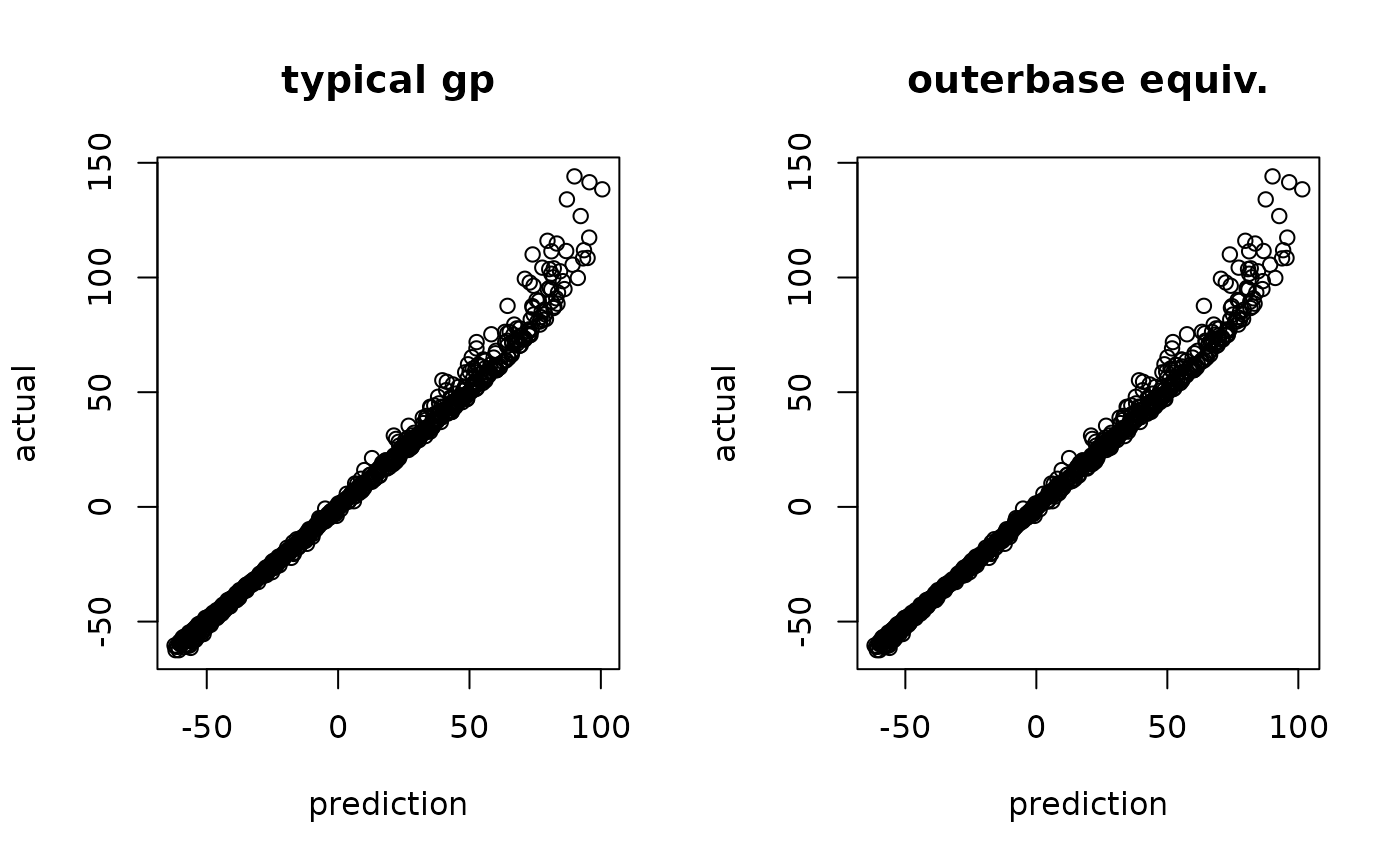
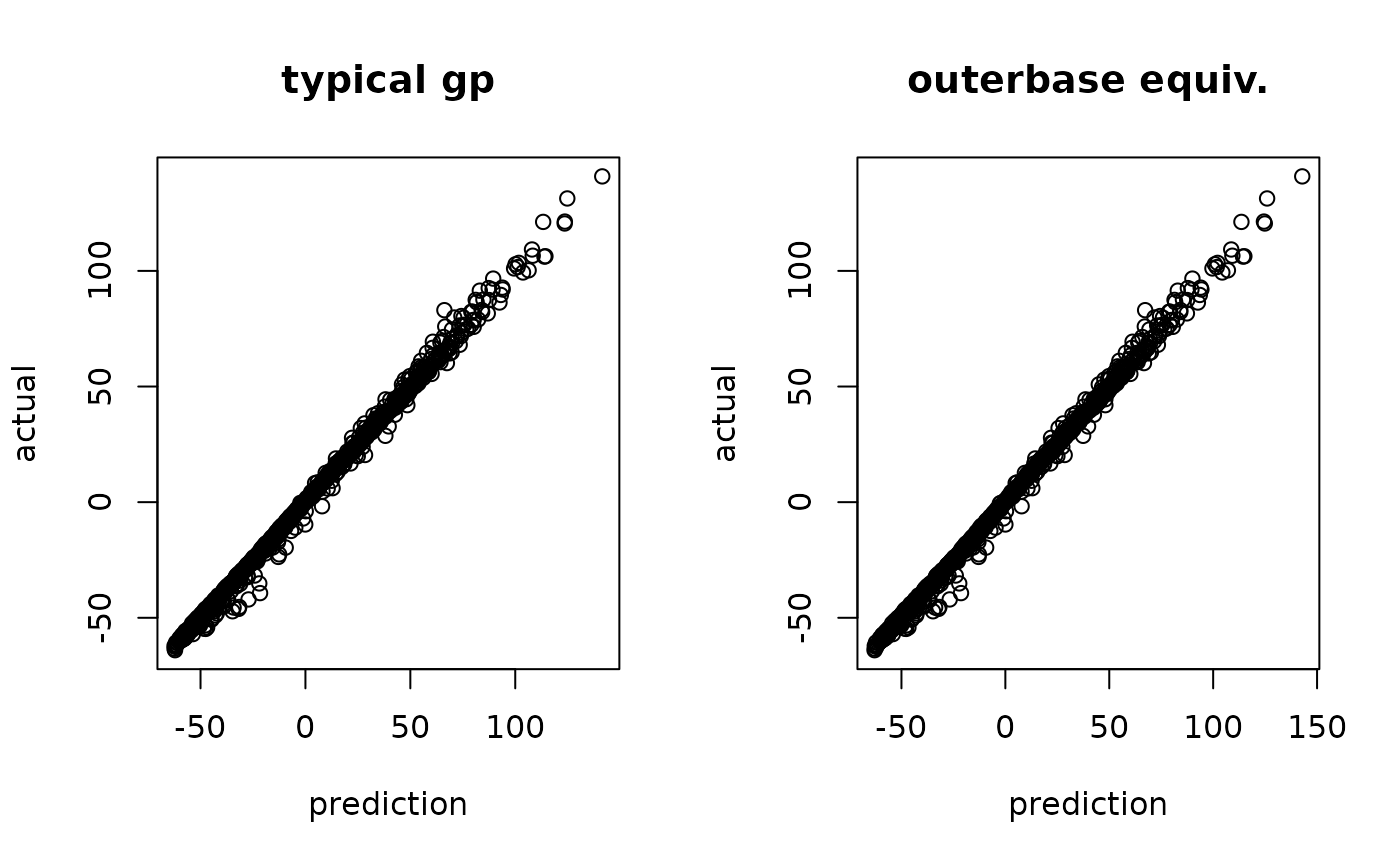
Built site for outerbase: 0.1.0@d67a49a

diff --git a/articles/learning.html b/articles/learning.html
@@ -154,15 +154,15 @@
 <span class="va">coeff0</span> <span class="op">=</span> <span class="fu"><a href="https://rdrr.io/r/base/rep.html" class="external-link">rep</a></span><span class="op">(</span><span class="fl">0</span>,<span class="va">loglik</span><span class="op">$</span><span class="va">nterms</span><span class="op">)</span>
 <span class="va">loglik</span><span class="op">$</span><span class="fu">update</span><span class="op">(</span><span class="va">coeff0</span><span class="op">)</span> <span class="co"># update it to get gradients</span>
 <span class="va">loglik</span><span class="op">$</span><span class="va">val</span>
-<span class="co">#&gt; [1] -165.8946</span>
+<span class="co">#&gt; [1] -157.9181</span>
 <span class="fu"><a href="https://rdrr.io/r/utils/head.html" class="external-link">head</a></span><span class="op">(</span><span class="va">loglik</span><span class="op">$</span><span class="va">grad</span><span class="op">)</span> <span class="co"># dim 60 for number of coeffients</span>
 <span class="co">#&gt;             [,1]</span>
-<span class="co">#&gt; [1,] -0.01409797</span>
-<span class="co">#&gt; [2,] -0.91698190</span>
-<span class="co">#&gt; [3,]  3.43017546</span>
-<span class="co">#&gt; [4,] -0.42483593</span>
-<span class="co">#&gt; [5,] -0.10561420</span>
-<span class="co">#&gt; [6,] -0.18467333</span></code></pre></div>
+<span class="co">#&gt; [1,]  0.06298246</span>
+<span class="co">#&gt; [2,] -0.87377171</span>
+<span class="co">#&gt; [3,]  2.48540709</span>
+<span class="co">#&gt; [4,] -0.67689310</span>
+<span class="co">#&gt; [5,]  0.21366357</span>
+<span class="co">#&gt; [6,] -0.52262908</span></code></pre></div>
 <p>A reasonable statistical model also needs prior on the coefficients. This tells us what distribution we expect on the coefficients.</p>
 <div class="sourceCode" id="cb10"><pre class="downlit sourceCode r">
 <code class="sourceCode R"><span class="va">logpr</span> <span class="op">=</span> <span class="fu">new</span><span class="op">(</span><span class="va">logpr_gauss</span>, <span class="va">om</span>, <span class="va">terms</span><span class="op">)</span></code></pre></div>
@@ -172,12 +172,12 @@
 <span class="va">para0</span> <span class="op">=</span> <span class="fu"><a href="../reference/getpara.html">getpara</a></span><span class="op">(</span><span class="va">logpdf</span><span class="op">)</span>
 <span class="va">para0</span>
 <span class="co">#&gt; noisescale coeffscale </span>
-<span class="co">#&gt;   2.918121   6.000000</span>
+<span class="co">#&gt;   3.114873   6.000000</span>
 <span class="va">para0</span><span class="op">[</span><span class="fl">2</span><span class="op">]</span> <span class="op">=</span> <span class="fl">4</span>
 <span class="va">logpdf</span><span class="op">$</span><span class="fu">updatepara</span><span class="op">(</span><span class="va">para0</span><span class="op">)</span>
 <span class="fu"><a href="../reference/getpara.html">getpara</a></span><span class="op">(</span><span class="va">logpdf</span><span class="op">)</span>
 <span class="co">#&gt; noisescale coeffscale </span>
-<span class="co">#&gt;   2.918121   4.000000</span></code></pre></div>
+<span class="co">#&gt;   3.114873   4.000000</span></code></pre></div>
 <p>The coefficients <code>coeff</code> are considered ancillary parameters that need to be optimized out (or something more sophisticated, hint on current research). For this class, it is easiest to do this via <code>lpdf$optnewton</code>, which takes a single Newton step to optimize the coefficients.</p>
 <div class="sourceCode" id="cb12"><pre class="downlit sourceCode r">
 <code class="sourceCode R"><span class="va">logpdf</span><span class="op">$</span><span class="fu">optnewton</span><span class="op">(</span><span class="op">)</span></code></pre></div>
@@ -208,16 +208,16 @@
 <code class="sourceCode R"><span class="va">logpdf</span><span class="op">$</span><span class="fu">optnewton</span><span class="op">(</span><span class="op">)</span>
 <span class="va">logpdf</span><span class="op">$</span><span class="va">gradhyp</span>    <span class="co"># dim 6 for all hyperparameter</span>
 <span class="co">#&gt;            [,1]</span>
-<span class="co">#&gt; [1,] -0.4354245</span>
-<span class="co">#&gt; [2,]  0.3445387</span>
-<span class="co">#&gt; [3,]  8.4598222</span>
-<span class="co">#&gt; [4,]  0.9965684</span>
-<span class="co">#&gt; [5,]  8.2870239</span>
-<span class="co">#&gt; [6,]  0.8652708</span>
+<span class="co">#&gt; [1,] -1.8914809</span>
+<span class="co">#&gt; [2,]  0.1880586</span>
+<span class="co">#&gt; [3,]  7.4871016</span>
+<span class="co">#&gt; [4,]  0.7825691</span>
+<span class="co">#&gt; [5,]  8.0155396</span>
+<span class="co">#&gt; [6,]  0.8188095</span>
 <span class="va">logpdf</span><span class="op">$</span><span class="va">gradpara</span>   <span class="co"># dim 2 since 2 parameters</span>
 <span class="co">#&gt;            [,1]</span>
-<span class="co">#&gt; [1,] -17.476154</span>
-<span class="co">#&gt; [2,]  -3.226378</span></code></pre></div>
+<span class="co">#&gt; [1,] -17.838563</span>
+<span class="co">#&gt; [2,]  -1.559564</span></code></pre></div>
 <p>This allows us to use custom functions to learn these hyperparameters to give maximum predictive power. The goal right now is a single point estimate of these hyperparameters. One has to be very careful to keep these in good ranges, and the call below will make sure to return <code>-inf</code> if there is a problem with the chosen hyperparameters.</p>
 <div class="sourceCode" id="cb16"><pre class="downlit sourceCode r">
 <code class="sourceCode R"><span class="va">totobj</span> <span class="op">=</span> <span class="kw">function</span><span class="op">(</span><span class="va">parlist</span><span class="op">)</span> <span class="op">{</span> <span class="co">#my optimization function for tuning</span>
@@ -239,69 +239,67 @@
 <code class="sourceCode R"><span class="va">parlist</span> <span class="op">=</span> <span class="fu"><a href="https://rdrr.io/r/base/list.html" class="external-link">list</a></span><span class="op">(</span>para <span class="op">=</span> <span class="fu"><a href="../reference/getpara.html">getpara</a></span><span class="op">(</span><span class="va">logpdf</span><span class="op">)</span>, hyp <span class="op">=</span> <span class="fu"><a href="../reference/gethyp.html">gethyp</a></span><span class="op">(</span><span class="va">om</span><span class="op">)</span><span class="op">)</span>
 <span class="fu">totobj</span><span class="op">(</span><span class="va">parlist</span><span class="op">)</span>
 <span class="co">#&gt; $val</span>
-<span class="co">#&gt; [1] 83.9639</span>
+<span class="co">#&gt; [1] 88.64726</span>
 <span class="co">#&gt; </span>
 <span class="co">#&gt; $gval</span>
 <span class="co">#&gt; $gval$para</span>
 <span class="co">#&gt;           [,1]</span>
-<span class="co">#&gt; [1,] 17.476154</span>
-<span class="co">#&gt; [2,]  2.726378</span>
+<span class="co">#&gt; [1,] 17.838563</span>
+<span class="co">#&gt; [2,]  1.059564</span>
 <span class="co">#&gt; </span>
 <span class="co">#&gt; $gval$hyp</span>
 <span class="co">#&gt;             [,1]</span>
-<span class="co">#&gt; [1,]  -4.9217183</span>
-<span class="co">#&gt; [2,]  -0.3445387</span>
-<span class="co">#&gt; [3,] -13.8169651</span>
-<span class="co">#&gt; [4,]  -0.9965684</span>
-<span class="co">#&gt; [5,] -13.6441668</span>
-<span class="co">#&gt; [6,]  -0.8652708</span>
+<span class="co">#&gt; [1,]  -3.4656620</span>
+<span class="co">#&gt; [2,]  -0.1880586</span>
+<span class="co">#&gt; [3,] -12.8442445</span>
+<span class="co">#&gt; [4,]  -0.7825691</span>
+<span class="co">#&gt; [5,] -13.3726825</span>
+<span class="co">#&gt; [6,]  -0.8188095</span>
 <span class="va">opth</span> <span class="op">=</span> <span class="fu"><a href="../reference/BFGS_std.html">BFGS_std</a></span><span class="op">(</span><span class="va">totobj</span>, <span class="va">parlist</span>, verbose<span class="op">=</span><span class="fl">3</span><span class="op">)</span> <span class="co">#</span>
 <span class="co">#&gt; </span>
 <span class="co">#&gt; ########started BFGS#######</span>
 <span class="co">#&gt;  iter.no obj.value wolfe.cond.1 wolfe.cond.2 learning.rate</span>
-<span class="co">#&gt;        0   83.9639           NA           NA           0.1</span>
+<span class="co">#&gt;        0   88.6473           NA           NA           0.1</span>
 <span class="co">#&gt;  iter.no obj.value wolfe.cond.1 wolfe.cond.2 learning.rate</span>
-<span class="co">#&gt;        1   81.0332     -2.93013     -46.5226           0.1</span>
+<span class="co">#&gt;        1   86.0996     -2.54714     -45.7816           0.1</span>
 <span class="co">#&gt;  iter.no obj.value wolfe.cond.1 wolfe.cond.2 learning.rate</span>
-<span class="co">#&gt;        2    76.268     -4.76467    -0.339566       0.50357</span>
+<span class="co">#&gt;        2   81.4334      -4.6657    -0.231404       0.50357</span>
 <span class="co">#&gt;  iter.no obj.value wolfe.cond.1 wolfe.cond.2 learning.rate</span>
-<span class="co">#&gt;        3   60.4958       -15.77     -24.9943      0.539329</span>
+<span class="co">#&gt;        3   65.2067     -16.2244     -26.9059      0.539329</span>
 <span class="co">#&gt;  iter.no obj.value wolfe.cond.1 wolfe.cond.2 learning.rate</span>
-<span class="co">#&gt;        4   54.6379     -5.85721     -2.81639      0.573679</span>
+<span class="co">#&gt;        4   60.0244     -5.18159     -2.54652      0.573679</span>
 <span class="co">#&gt;  iter.no obj.value wolfe.cond.1 wolfe.cond.2 learning.rate</span>
-<span class="co">#&gt;        5   44.0634     -10.5731     -9.40703      0.606459</span>
+<span class="co">#&gt;        5   50.3899     -9.63328     -6.43443      0.606459</span>
 <span class="co">#&gt;  iter.no obj.value wolfe.cond.1 wolfe.cond.2 learning.rate</span>
-<span class="co">#&gt;        6   35.1811     -8.88113     -5.11392      0.637561</span>
+<span class="co">#&gt;        6   39.1815      -11.207     -10.5625      0.637561</span>
 <span class="co">#&gt;  iter.no obj.value wolfe.cond.1 wolfe.cond.2 learning.rate</span>
-<span class="co">#&gt;        7   29.0215     -6.15838     -17.4167      0.666913</span>
+<span class="co">#&gt;        7   35.3167     -3.86414     -5.56344      0.666913</span>
 <span class="co">#&gt;  iter.no obj.value wolfe.cond.1 wolfe.cond.2 learning.rate</span>
-<span class="co">#&gt;        8   27.5932     -1.42791      -9.3062      0.694484</span>
-<span class="co">#&gt;  iter.no obj.value wolfe.cond.1 wolfe.cond.2 learning.rate</span>
-<span class="co">#&gt;        9   27.1559    -0.437159    -0.922883      0.720271</span>
-<span class="co">#&gt; num iter: 10  obj start: 83.9639  obj end: 27.13144</span>
-<span class="co">#&gt; final learning rate: 0.7442976</span>
-<span class="co">#&gt; approx lower bound (not achieved): 27.08945</span>
+<span class="co">#&gt;        8   34.8155    -0.501086     -3.52478      0.694484</span>
+<span class="co">#&gt; num iter: 9  obj start: 88.64726  obj end: 34.3146</span>
+<span class="co">#&gt; final learning rate: 0.7202715</span>
+<span class="co">#&gt; approx lower bound (not achieved): 32.99314</span>
 <span class="co">#&gt; #########finished BFGS########</span></code></pre></div>
 <p>Then we just have to update out parameters and re-optimize, and we can check that we are at least must closer to stationary point.</p>
 <div class="sourceCode" id="cb18"><pre class="downlit sourceCode r">
 <code class="sourceCode R"><span class="fu">totobj</span><span class="op">(</span><span class="va">opth</span><span class="op">$</span><span class="va">par</span><span class="op">)</span>
 <span class="co">#&gt; $val</span>
-<span class="co">#&gt; [1] 27.13144</span>
+<span class="co">#&gt; [1] 34.3146</span>
 <span class="co">#&gt; </span>
 <span class="co">#&gt; $gval</span>
 <span class="co">#&gt; $gval$para</span>
-<span class="co">#&gt;           [,1]</span>
-<span class="co">#&gt; [1,] -0.421129</span>
-<span class="co">#&gt; [2,] -0.835277</span>
+<span class="co">#&gt;            [,1]</span>
+<span class="co">#&gt; [1,] -0.9311632</span>
+<span class="co">#&gt; [2,] -0.1623044</span>
 <span class="co">#&gt; </span>
 <span class="co">#&gt; $gval$hyp</span>
-<span class="co">#&gt;             [,1]</span>
-<span class="co">#&gt; [1,] -0.44363247</span>
-<span class="co">#&gt; [2,] -0.36102089</span>
-<span class="co">#&gt; [3,]  0.04007399</span>
-<span class="co">#&gt; [4,] -0.27483553</span>
-<span class="co">#&gt; [5,] -0.07262555</span>
-<span class="co">#&gt; [6,] -0.36960464</span></code></pre></div>
+<span class="co">#&gt;            [,1]</span>
+<span class="co">#&gt; [1,] -0.8098683</span>
+<span class="co">#&gt; [2,] -0.2666485</span>
+<span class="co">#&gt; [3,] -1.5011037</span>
+<span class="co">#&gt; [4,] -0.5390726</span>
+<span class="co">#&gt; [5,] -0.6901071</span>
+<span class="co">#&gt; [6,]  0.1982655</span></code></pre></div>
 <p>These steps can all be nicely wrapped up in another function <code><a href="../reference/BFGS_lpdf.html">?BFGS_lpdf</a></code>, which is a simpler call with the same result. Note because of some things not fully understood, these numbers will not match <em>exactly</em> above, but they will be quite close and functionally the same.</p>
 <div class="sourceCode" id="cb19"><pre class="downlit sourceCode r">
 <code class="sourceCode R"><span class="va">opth</span> <span class="op">=</span> <span class="fu"><a href="../reference/BFGS_lpdf.html">BFGS_lpdf</a></span><span class="op">(</span><span class="va">om</span>, <span class="va">logpdf</span>, 
@@ -310,28 +308,26 @@
 <span class="co">#&gt; </span>
 <span class="co">#&gt; ########started BFGS#######</span>
 <span class="co">#&gt;  iter.no obj.value wolfe.cond.1 wolfe.cond.2 learning.rate</span>
-<span class="co">#&gt;        0   83.9639           NA           NA           0.1</span>
+<span class="co">#&gt;        0   88.6473           NA           NA           0.1</span>
 <span class="co">#&gt;  iter.no obj.value wolfe.cond.1 wolfe.cond.2 learning.rate</span>
-<span class="co">#&gt;        1   81.0332     -2.93013     -46.5226           0.1</span>
+<span class="co">#&gt;        1   86.0996     -2.54714     -45.7816           0.1</span>
 <span class="co">#&gt;  iter.no obj.value wolfe.cond.1 wolfe.cond.2 learning.rate</span>
-<span class="co">#&gt;        2    76.268     -4.76467    -0.339566       0.50357</span>
+<span class="co">#&gt;        2   81.4334      -4.6657    -0.231404       0.50357</span>
 <span class="co">#&gt;  iter.no obj.value wolfe.cond.1 wolfe.cond.2 learning.rate</span>
-<span class="co">#&gt;        3   60.4958       -15.77     -24.9943      0.539329</span>
+<span class="co">#&gt;        3   65.2067     -16.2244     -26.9059      0.539329</span>
 <span class="co">#&gt;  iter.no obj.value wolfe.cond.1 wolfe.cond.2 learning.rate</span>
-<span class="co">#&gt;        4   54.6379     -5.85721     -2.81639      0.573679</span>
+<span class="co">#&gt;        4   60.0244     -5.18159     -2.54652      0.573679</span>
 <span class="co">#&gt;  iter.no obj.value wolfe.cond.1 wolfe.cond.2 learning.rate</span>
-<span class="co">#&gt;        5   44.0634     -10.5731     -9.40703      0.606459</span>
+<span class="co">#&gt;        5   50.3899     -9.63328     -6.43443      0.606459</span>
 <span class="co">#&gt;  iter.no obj.value wolfe.cond.1 wolfe.cond.2 learning.rate</span>
-<span class="co">#&gt;        6   35.1811     -8.88113     -5.11392      0.637561</span>
+<span class="co">#&gt;        6   39.1815      -11.207     -10.5625      0.637561</span>
 <span class="co">#&gt;  iter.no obj.value wolfe.cond.1 wolfe.cond.2 learning.rate</span>
-<span class="co">#&gt;        7   29.0215     -6.15838     -17.4167      0.666913</span>
+<span class="co">#&gt;        7   35.3167     -3.86414     -5.56344      0.666913</span>
 <span class="co">#&gt;  iter.no obj.value wolfe.cond.1 wolfe.cond.2 learning.rate</span>
-<span class="co">#&gt;        8   27.5932     -1.42791      -9.3062      0.694484</span>
-<span class="co">#&gt;  iter.no obj.value wolfe.cond.1 wolfe.cond.2 learning.rate</span>
-<span class="co">#&gt;        9   27.1559    -0.437159    -0.922883      0.720271</span>
-<span class="co">#&gt; num iter: 10  obj start: 83.9639  obj end: 27.13144</span>
-<span class="co">#&gt; final learning rate: 0.7442976</span>
-<span class="co">#&gt; approx lower bound (not achieved): 27.08945</span>
+<span class="co">#&gt;        8   34.8155    -0.501086     -3.52478      0.694484</span>
+<span class="co">#&gt; num iter: 9  obj start: 88.64726  obj end: 34.3146</span>
+<span class="co">#&gt; final learning rate: 0.7202715</span>
+<span class="co">#&gt; approx lower bound (not achieved): 32.99314</span>
 <span class="co">#&gt; #########finished BFGS########</span></code></pre></div>
 <p>The revised predictions are then built after hyperparameter optimization where we find improved predictive accuracy in nearly every category. Here we can see a much better alignment between predictions and actual alongside a better plot of standardized residuals (more like a standard normal distribution).</p>
 <div class="sourceCode" id="cb20"><pre class="downlit sourceCode r">

diff --git a/reference/lpdf-cash-optcg.html b/reference/lpdf-cash-optcg.html
@@ -3,11 +3,11 @@
 
 lpdf$optcg(tol,epoch)
 This optimizes the coefficient vector coeff using conjugate gradient. 
-It currently is designed only for quadratic lpdf instaces."><title>Optimization via Conjugate Gradient — lpdf$optcg • outerbase</title><script src="../deps/jquery-3.6.0/jquery-3.6.0.min.js"></script><meta name="viewport" content="width=device-width, initial-scale=1, shrink-to-fit=no"><link href="../deps/bootstrap-5.1.0/bootstrap.min.css" rel="stylesheet"><script src="../deps/bootstrap-5.1.0/bootstrap.bundle.min.js"></script><link href="../deps/_Source%20Sans%20Pro-0.4.1/font.css" rel="stylesheet"><link href="../deps/_Source%20Code%20Pro-0.4.1/font.css" rel="stylesheet"><!-- Font Awesome icons --><link rel="stylesheet" href="https://cdnjs.cloudflare.com/ajax/libs/font-awesome/5.12.1/css/all.min.css" integrity="sha256-mmgLkCYLUQbXn0B1SRqzHar6dCnv9oZFPEC1g1cwlkk=" crossorigin="anonymous"><link rel="stylesheet" href="https://cdnjs.cloudflare.com/ajax/libs/font-awesome/5.12.1/css/v4-shims.min.css" integrity="sha256-wZjR52fzng1pJHwx4aV2AO3yyTOXrcDW7jBpJtTwVxw=" crossorigin="anonymous"><!-- bootstrap-toc --><script src="https://cdn.rawgit.com/afeld/bootstrap-toc/v1.0.1/dist/bootstrap-toc.min.js"></script><!-- headroom.js --><script src="https://cdnjs.cloudflare.com/ajax/libs/headroom/0.11.0/headroom.min.js" integrity="sha256-AsUX4SJE1+yuDu5+mAVzJbuYNPHj/WroHuZ8Ir/CkE0=" crossorigin="anonymous"></script><script src="https://cdnjs.cloudflare.com/ajax/libs/headroom/0.11.0/jQuery.headroom.min.js" integrity="sha256-ZX/yNShbjqsohH1k95liqY9Gd8uOiE1S4vZc+9KQ1K4=" crossorigin="anonymous"></script><!-- clipboard.js --><script src="https://cdnjs.cloudflare.com/ajax/libs/clipboard.js/2.0.6/clipboard.min.js" integrity="sha256-inc5kl9MA1hkeYUt+EC3BhlIgyp/2jDIyBLS6k3UxPI=" crossorigin="anonymous"></script><!-- search --><script src="https://cdnjs.cloudflare.com/ajax/libs/fuse.js/6.4.6/fuse.js" integrity="sha512-zv6Ywkjyktsohkbp9bb45V6tEMoWhzFzXis+LrMehmJZZSys19Yxf1dopHx7WzIKxr5tK2dVcYmaCk2uqdjF4A==" crossorigin="anonymous"></script><script src="https://cdnjs.cloudflare.com/ajax/libs/autocomplete.js/0.38.0/autocomplete.jquery.min.js" integrity="sha512-GU9ayf+66Xx2TmpxqJpliWbT5PiGYxpaG8rfnBEk1LL8l1KGkRShhngwdXK1UgqhAzWpZHSiYPc09/NwDQIGyg==" crossorigin="anonymous"></script><script src="https://cdnjs.cloudflare.com/ajax/libs/mark.js/8.11.1/mark.min.js" integrity="sha512-5CYOlHXGh6QpOFA/TeTylKLWfB3ftPsde7AnmhuitiTX4K5SqCLBeKro6sPS8ilsz1Q4NRx3v8Ko2IBiszzdww==" crossorigin="anonymous"></script><!-- pkgdown --><script src="../pkgdown.js"></script><meta property="og:title" content="Optimization via Conjugate Gradient — lpdf$optcg"><meta property="og:description" content="
+It currently is designed only for quadratic lpdf instances."><title>Optimization via Conjugate Gradient — lpdf$optcg • outerbase</title><script src="../deps/jquery-3.6.0/jquery-3.6.0.min.js"></script><meta name="viewport" content="width=device-width, initial-scale=1, shrink-to-fit=no"><link href="../deps/bootstrap-5.1.0/bootstrap.min.css" rel="stylesheet"><script src="../deps/bootstrap-5.1.0/bootstrap.bundle.min.js"></script><link href="../deps/_Source%20Sans%20Pro-0.4.1/font.css" rel="stylesheet"><link href="../deps/_Source%20Code%20Pro-0.4.1/font.css" rel="stylesheet"><!-- Font Awesome icons --><link rel="stylesheet" href="https://cdnjs.cloudflare.com/ajax/libs/font-awesome/5.12.1/css/all.min.css" integrity="sha256-mmgLkCYLUQbXn0B1SRqzHar6dCnv9oZFPEC1g1cwlkk=" crossorigin="anonymous"><link rel="stylesheet" href="https://cdnjs.cloudflare.com/ajax/libs/font-awesome/5.12.1/css/v4-shims.min.css" integrity="sha256-wZjR52fzng1pJHwx4aV2AO3yyTOXrcDW7jBpJtTwVxw=" crossorigin="anonymous"><!-- bootstrap-toc --><script src="https://cdn.rawgit.com/afeld/bootstrap-toc/v1.0.1/dist/bootstrap-toc.min.js"></script><!-- headroom.js --><script src="https://cdnjs.cloudflare.com/ajax/libs/headroom/0.11.0/headroom.min.js" integrity="sha256-AsUX4SJE1+yuDu5+mAVzJbuYNPHj/WroHuZ8Ir/CkE0=" crossorigin="anonymous"></script><script src="https://cdnjs.cloudflare.com/ajax/libs/headroom/0.11.0/jQuery.headroom.min.js" integrity="sha256-ZX/yNShbjqsohH1k95liqY9Gd8uOiE1S4vZc+9KQ1K4=" crossorigin="anonymous"></script><!-- clipboard.js --><script src="https://cdnjs.cloudflare.com/ajax/libs/clipboard.js/2.0.6/clipboard.min.js" integrity="sha256-inc5kl9MA1hkeYUt+EC3BhlIgyp/2jDIyBLS6k3UxPI=" crossorigin="anonymous"></script><!-- search --><script src="https://cdnjs.cloudflare.com/ajax/libs/fuse.js/6.4.6/fuse.js" integrity="sha512-zv6Ywkjyktsohkbp9bb45V6tEMoWhzFzXis+LrMehmJZZSys19Yxf1dopHx7WzIKxr5tK2dVcYmaCk2uqdjF4A==" crossorigin="anonymous"></script><script src="https://cdnjs.cloudflare.com/ajax/libs/autocomplete.js/0.38.0/autocomplete.jquery.min.js" integrity="sha512-GU9ayf+66Xx2TmpxqJpliWbT5PiGYxpaG8rfnBEk1LL8l1KGkRShhngwdXK1UgqhAzWpZHSiYPc09/NwDQIGyg==" crossorigin="anonymous"></script><script src="https://cdnjs.cloudflare.com/ajax/libs/mark.js/8.11.1/mark.min.js" integrity="sha512-5CYOlHXGh6QpOFA/TeTylKLWfB3ftPsde7AnmhuitiTX4K5SqCLBeKro6sPS8ilsz1Q4NRx3v8Ko2IBiszzdww==" crossorigin="anonymous"></script><!-- pkgdown --><script src="../pkgdown.js"></script><meta property="og:title" content="Optimization via Conjugate Gradient — lpdf$optcg"><meta property="og:description" content="
 
 lpdf$optcg(tol,epoch)
 This optimizes the coefficient vector coeff using conjugate gradient. 
-It currently is designed only for quadratic lpdf instaces."><!-- mathjax --><script src="https://cdnjs.cloudflare.com/ajax/libs/mathjax/2.7.5/MathJax.js" integrity="sha256-nvJJv9wWKEm88qvoQl9ekL2J+k/RWIsaSScxxlsrv8k=" crossorigin="anonymous"></script><script src="https://cdnjs.cloudflare.com/ajax/libs/mathjax/2.7.5/config/TeX-AMS-MML_HTMLorMML.js" integrity="sha256-84DKXVJXs0/F8OTMzX4UR909+jtl4G7SPypPavF+GfA=" crossorigin="anonymous"></script><!--[if lt IE 9]>
+It currently is designed only for quadratic lpdf instances."><!-- mathjax --><script src="https://cdnjs.cloudflare.com/ajax/libs/mathjax/2.7.5/MathJax.js" integrity="sha256-nvJJv9wWKEm88qvoQl9ekL2J+k/RWIsaSScxxlsrv8k=" crossorigin="anonymous"></script><script src="https://cdnjs.cloudflare.com/ajax/libs/mathjax/2.7.5/config/TeX-AMS-MML_HTMLorMML.js" integrity="sha256-84DKXVJXs0/F8OTMzX4UR909+jtl4G7SPypPavF+GfA=" crossorigin="anonymous"></script><!--[if lt IE 9]>
 <script src="https://oss.maxcdn.com/html5shiv/3.7.3/html5shiv.min.js"></script>
 <script src="https://oss.maxcdn.com/respond/1.4.2/respond.min.js"></script>
 <![endif]--></head><body>
@@ -67,7 +67,7 @@ It currently is designed only for quadratic lpdf instaces."><!-- mathjax --><scr
     <div class="ref-description section level2">
     
 <div class="sourceCode"><pre><code><span class="va">lpdf</span><span class="op">$</span><span class="fu">optcg</span><span class="op">(</span><span class="va">tol</span>,<span class="va">epoch</span><span class="op">)</span></code></pre></div><p>This optimizes the coefficient vector <code>coeff</code> using conjugate gradient. 
-It currently is designed only for quadratic <code><a href="lpdf.html">lpdf</a></code> instaces.</p>
+It currently is designed only for quadratic <code><a href="lpdf.html">lpdf</a></code> instances.</p>
     </div>
 
 

diff --git a/articles/basebasics.html b/articles/basebasics.html
@@ -233,10 +233,10 @@
 <span class="co">#&gt;      [,1] [,2] [,3]</span>
 <span class="co">#&gt; [1,]    0    0    0</span>
 <span class="co">#&gt; [2,]    1    0    0</span>
-<span class="co">#&gt; [3,]    0    1    0</span>
-<span class="co">#&gt; [4,]    0    0    1</span>
-<span class="co">#&gt; [5,]    1    0    1</span>
-<span class="co">#&gt; [6,]    1    1    0</span></code></pre></div>
+<span class="co">#&gt; [3,]    0    0    1</span>
+<span class="co">#&gt; [4,]    0    1    0</span>
+<span class="co">#&gt; [5,]    1    1    0</span>
+<span class="co">#&gt; [6,]    1    0    1</span></code></pre></div>
 <p><code>outermod$getvar</code> returns the vector of variances associated with these coefficients at these <code>terms</code>.</p>
 <div class="sourceCode" id="cb20"><pre class="downlit sourceCode r">
 <code class="sourceCode R"><span class="va">covcoeff</span> <span class="op">=</span> <span class="fu"><a href="https://rdrr.io/r/base/vector.html" class="external-link">as.vector</a></span><span class="op">(</span><span class="va">om</span><span class="op">$</span><span class="fu">getvar</span><span class="op">(</span><span class="va">terms</span><span class="op">)</span><span class="op">)</span></code></pre></div>
@@ -251,11 +251,11 @@
 
 <span class="fu"><a href="https://rdrr.io/r/base/cbind.html" class="external-link">cbind</a></span><span class="op">(</span><span class="va">basevec</span><span class="op">[</span><span class="fl">1</span><span class="op">:</span><span class="fl">5</span><span class="op">]</span>,<span class="va">basismat</span><span class="op">[</span><span class="fl">1</span><span class="op">:</span><span class="fl">5</span>,<span class="fl">5</span><span class="op">]</span><span class="op">)</span> <span class="co"># expect equal</span>
 <span class="co">#&gt;            [,1]       [,2]</span>
-<span class="co">#&gt; [1,]  2.3101161  2.3101161</span>
-<span class="co">#&gt; [2,] -1.9668127 -1.9668127</span>
-<span class="co">#&gt; [3,]  1.1453259  1.1453259</span>
-<span class="co">#&gt; [4,]  1.4880665  1.4880665</span>
-<span class="co">#&gt; [5,]  0.2634015  0.2634015</span></code></pre></div>
+<span class="co">#&gt; [1,]  0.2667642  0.2667642</span>
+<span class="co">#&gt; [2,] -1.3287883 -1.3287883</span>
+<span class="co">#&gt; [3,]  2.0756653  2.0756653</span>
+<span class="co">#&gt; [4,]  0.9756641  0.9756641</span>
+<span class="co">#&gt; [5,] -1.6229195 -1.6229195</span></code></pre></div>
 </div>
 </div>
 <div class="section level2">
@@ -268,18 +268,18 @@
 
 <span class="fu"><a href="https://rdrr.io/r/base/print.html" class="external-link">print</a></span><span class="op">(</span><span class="fu"><a href="https://rdrr.io/r/base/Round.html" class="external-link">round</a></span><span class="op">(</span><span class="va">cormattot</span><span class="op">[</span><span class="fl">1</span><span class="op">:</span><span class="fl">5</span>,<span class="fl">1</span><span class="op">:</span><span class="fl">5</span><span class="op">]</span>,<span class="fl">3</span><span class="op">)</span><span class="op">)</span> <span class="co"># typical gp</span>
 <span class="co">#&gt;       [,1]  [,2]  [,3]  [,4]  [,5]</span>
-<span class="co">#&gt; [1,] 1.000 0.365 0.666 0.821 0.791</span>
-<span class="co">#&gt; [2,] 0.365 1.000 0.599 0.558 0.577</span>
-<span class="co">#&gt; [3,] 0.666 0.599 1.000 0.947 0.629</span>
-<span class="co">#&gt; [4,] 0.821 0.558 0.947 1.000 0.747</span>
-<span class="co">#&gt; [5,] 0.791 0.577 0.629 0.747 1.000</span>
+<span class="co">#&gt; [1,] 1.000 0.871 0.744 0.871 0.352</span>
+<span class="co">#&gt; [2,] 0.871 1.000 0.580 0.791 0.554</span>
+<span class="co">#&gt; [3,] 0.744 0.580 1.000 0.899 0.296</span>
+<span class="co">#&gt; [4,] 0.871 0.791 0.899 1.000 0.456</span>
+<span class="co">#&gt; [5,] 0.352 0.554 0.296 0.456 1.000</span>
 <span class="fu"><a href="https://rdrr.io/r/base/print.html" class="external-link">print</a></span><span class="op">(</span><span class="fu"><a href="https://rdrr.io/r/base/Round.html" class="external-link">round</a></span><span class="op">(</span><span class="va">cormatob</span><span class="op">[</span><span class="fl">1</span><span class="op">:</span><span class="fl">5</span>,<span class="fl">1</span><span class="op">:</span><span class="fl">5</span><span class="op">]</span>,<span class="fl">3</span><span class="op">)</span><span class="op">)</span> <span class="co"># outerbase</span>
 <span class="co">#&gt;       [,1]  [,2]  [,3]  [,4]  [,5]</span>
-<span class="co">#&gt; [1,] 0.999 0.365 0.666 0.821 0.791</span>
-<span class="co">#&gt; [2,] 0.365 1.000 0.599 0.558 0.577</span>
-<span class="co">#&gt; [3,] 0.666 0.599 1.000 0.947 0.629</span>
-<span class="co">#&gt; [4,] 0.821 0.558 0.947 1.000 0.747</span>
-<span class="co">#&gt; [5,] 0.791 0.577 0.629 0.747 1.000</span></code></pre></div>
+<span class="co">#&gt; [1,] 0.999 0.871 0.744 0.871 0.352</span>
+<span class="co">#&gt; [2,] 0.871 1.000 0.580 0.791 0.554</span>
+<span class="co">#&gt; [3,] 0.744 0.580 1.000 0.899 0.296</span>
+<span class="co">#&gt; [4,] 0.871 0.791 0.899 1.000 0.456</span>
+<span class="co">#&gt; [5,] 0.352 0.554 0.296 0.456 1.000</span></code></pre></div>
 <p>They means that we can leverage <a href="https://en.wikipedia.org/wiki/Bayesian_linear_regression" class="external-link">Bayesian linear regression</a> to do prediction. This will require assuming that there is some <code>noisevar</code>, which is also called the nugget in the Gaussian process literature.</p>
 <div class="sourceCode" id="cb23"><pre class="downlit sourceCode r">
 <code class="sourceCode R"><span class="va">noisevar</span> <span class="op">=</span> <span class="fl">10</span><span class="op">^</span><span class="op">(</span><span class="op">-</span><span class="fl">4</span><span class="op">)</span>

diff --git a/articles/gettingstarted.html b/articles/gettingstarted.html
@@ -144,7 +144,7 @@
 <span class="va">obmodel</span> <span class="op">=</span> <span class="fu"><a href="../reference/obfit.html">obfit</a></span><span class="op">(</span><span class="va">x</span>, <span class="va">y</span>, numb<span class="op">=</span><span class="fl">300</span>, covnames<span class="op">=</span><span class="fu"><a href="https://rdrr.io/r/base/rep.html" class="external-link">rep</a></span><span class="op">(</span><span class="st">"mat25pow"</span>,<span class="fl">8</span><span class="op">)</span><span class="op">)</span> 
 <span class="fu"><a href="https://rdrr.io/r/base/print.html" class="external-link">print</a></span><span class="op">(</span><span class="op">(</span><span class="fu"><a href="https://rdrr.io/r/base/proc.time.html" class="external-link">proc.time</a></span><span class="op">(</span><span class="op">)</span> <span class="op">-</span> <span class="va">ptm</span><span class="op">)</span><span class="op">[</span><span class="fl">3</span><span class="op">]</span><span class="op">)</span>
 <span class="co">#&gt; elapsed </span>
-<span class="co">#&gt;   0.853</span></code></pre></div>
+<span class="co">#&gt;   0.774</span></code></pre></div>
 <p>Note that by changing threads to match the computer, we can adjust how processing is done. The default is to grab all available threads. Below we reduce ourselves to a single thread, which should slow things down.</p>
 <div class="sourceCode" id="cb6"><pre class="downlit sourceCode r">
 <code class="sourceCode R"><span class="va">ptm</span> <span class="op">=</span> <span class="fu"><a href="https://rdrr.io/r/base/proc.time.html" class="external-link">proc.time</a></span><span class="op">(</span><span class="op">)</span>
@@ -152,7 +152,7 @@
                 nthreads<span class="op">=</span><span class="fl">1</span><span class="op">)</span> <span class="co">#optional input</span>
 <span class="fu"><a href="https://rdrr.io/r/base/print.html" class="external-link">print</a></span><span class="op">(</span><span class="op">(</span><span class="fu"><a href="https://rdrr.io/r/base/proc.time.html" class="external-link">proc.time</a></span><span class="op">(</span><span class="op">)</span> <span class="op">-</span> <span class="va">ptm</span><span class="op">)</span><span class="op">[</span><span class="fl">3</span><span class="op">]</span><span class="op">)</span>
 <span class="co">#&gt; elapsed </span>
-<span class="co">#&gt;   1.823</span></code></pre></div>
+<span class="co">#&gt;   1.345</span></code></pre></div>
 <p>Note that the package relies on <code>omp</code> for parallelization, so if the package was not compiled with that in place there will be no benefits.</p>
 <p>We can then predict using <code><a href="../reference/obpred.html">?obpred</a></code>. While it is not an exact interpolator, it is close.</p>
 <div class="sourceCode" id="cb7"><pre class="downlit sourceCode r">

diff --git a/articles/speed.html b/articles/speed.html
@@ -165,7 +165,7 @@
 <span class="va">yhat_slow</span> <span class="op">=</span> <span class="fu"><a href="https://rdrr.io/r/base/vector.html" class="external-link">as.vector</a></span><span class="op">(</span><span class="va">pred_slow</span><span class="op">$</span><span class="fu">mean</span><span class="op">(</span><span class="op">)</span><span class="op">)</span>
 <span class="fu"><a href="https://rdrr.io/r/base/print.html" class="external-link">print</a></span><span class="op">(</span><span class="va">t_slow</span><span class="op">)</span>
 <span class="co">#&gt;    user  system elapsed </span>
-<span class="co">#&gt;  21.903   0.008  21.123</span></code></pre></div>
+<span class="co">#&gt;  20.913   0.023  20.171</span></code></pre></div>
 <div class="sourceCode" id="cb15"><pre class="downlit sourceCode r">
 <code class="sourceCode R"><span class="va">ptm</span> <span class="op">=</span> <span class="fu"><a href="https://rdrr.io/r/base/proc.time.html" class="external-link">proc.time</a></span><span class="op">(</span><span class="op">)</span>
 <span class="va">opth</span> <span class="op">=</span> <span class="fu"><a href="../reference/BFGS_lpdf.html">BFGS_lpdf</a></span><span class="op">(</span><span class="va">om</span>, <span class="va">logpdf_fast</span>, 
@@ -176,7 +176,7 @@
 <span class="va">yhat_fast</span> <span class="op">=</span> <span class="fu"><a href="https://rdrr.io/r/base/vector.html" class="external-link">as.vector</a></span><span class="op">(</span><span class="va">pred_fast</span><span class="op">$</span><span class="fu">mean</span><span class="op">(</span><span class="op">)</span><span class="op">)</span>
 <span class="fu"><a href="https://rdrr.io/r/base/print.html" class="external-link">print</a></span><span class="op">(</span><span class="va">t_fast</span><span class="op">)</span>
 <span class="co">#&gt;    user  system elapsed </span>
-<span class="co">#&gt;   2.730   0.041   1.922</span></code></pre></div>
+<span class="co">#&gt;   1.948   0.084   1.259</span></code></pre></div>
 </div>
 <div class="section level2">
 <h2 id="comparison-of-results">Comparison of results<a class="anchor" aria-label="anchor" href="#comparison-of-results"></a>

diff --git a/reference/outermod.html b/reference/outermod.html
@@ -78,7 +78,7 @@ class instances.  It stores key information for constructing a basis.</p>
 
 <dt><code><a href="outermod-cash-getvar.html">outermod$getvar</a>(terms)</code></dt>
 <dd><p>find variances of coefficients 
-assoicated with  <code>terms</code></p></dd>
+associated with  <code>terms</code></p></dd>
 
 
 </dl></div>
